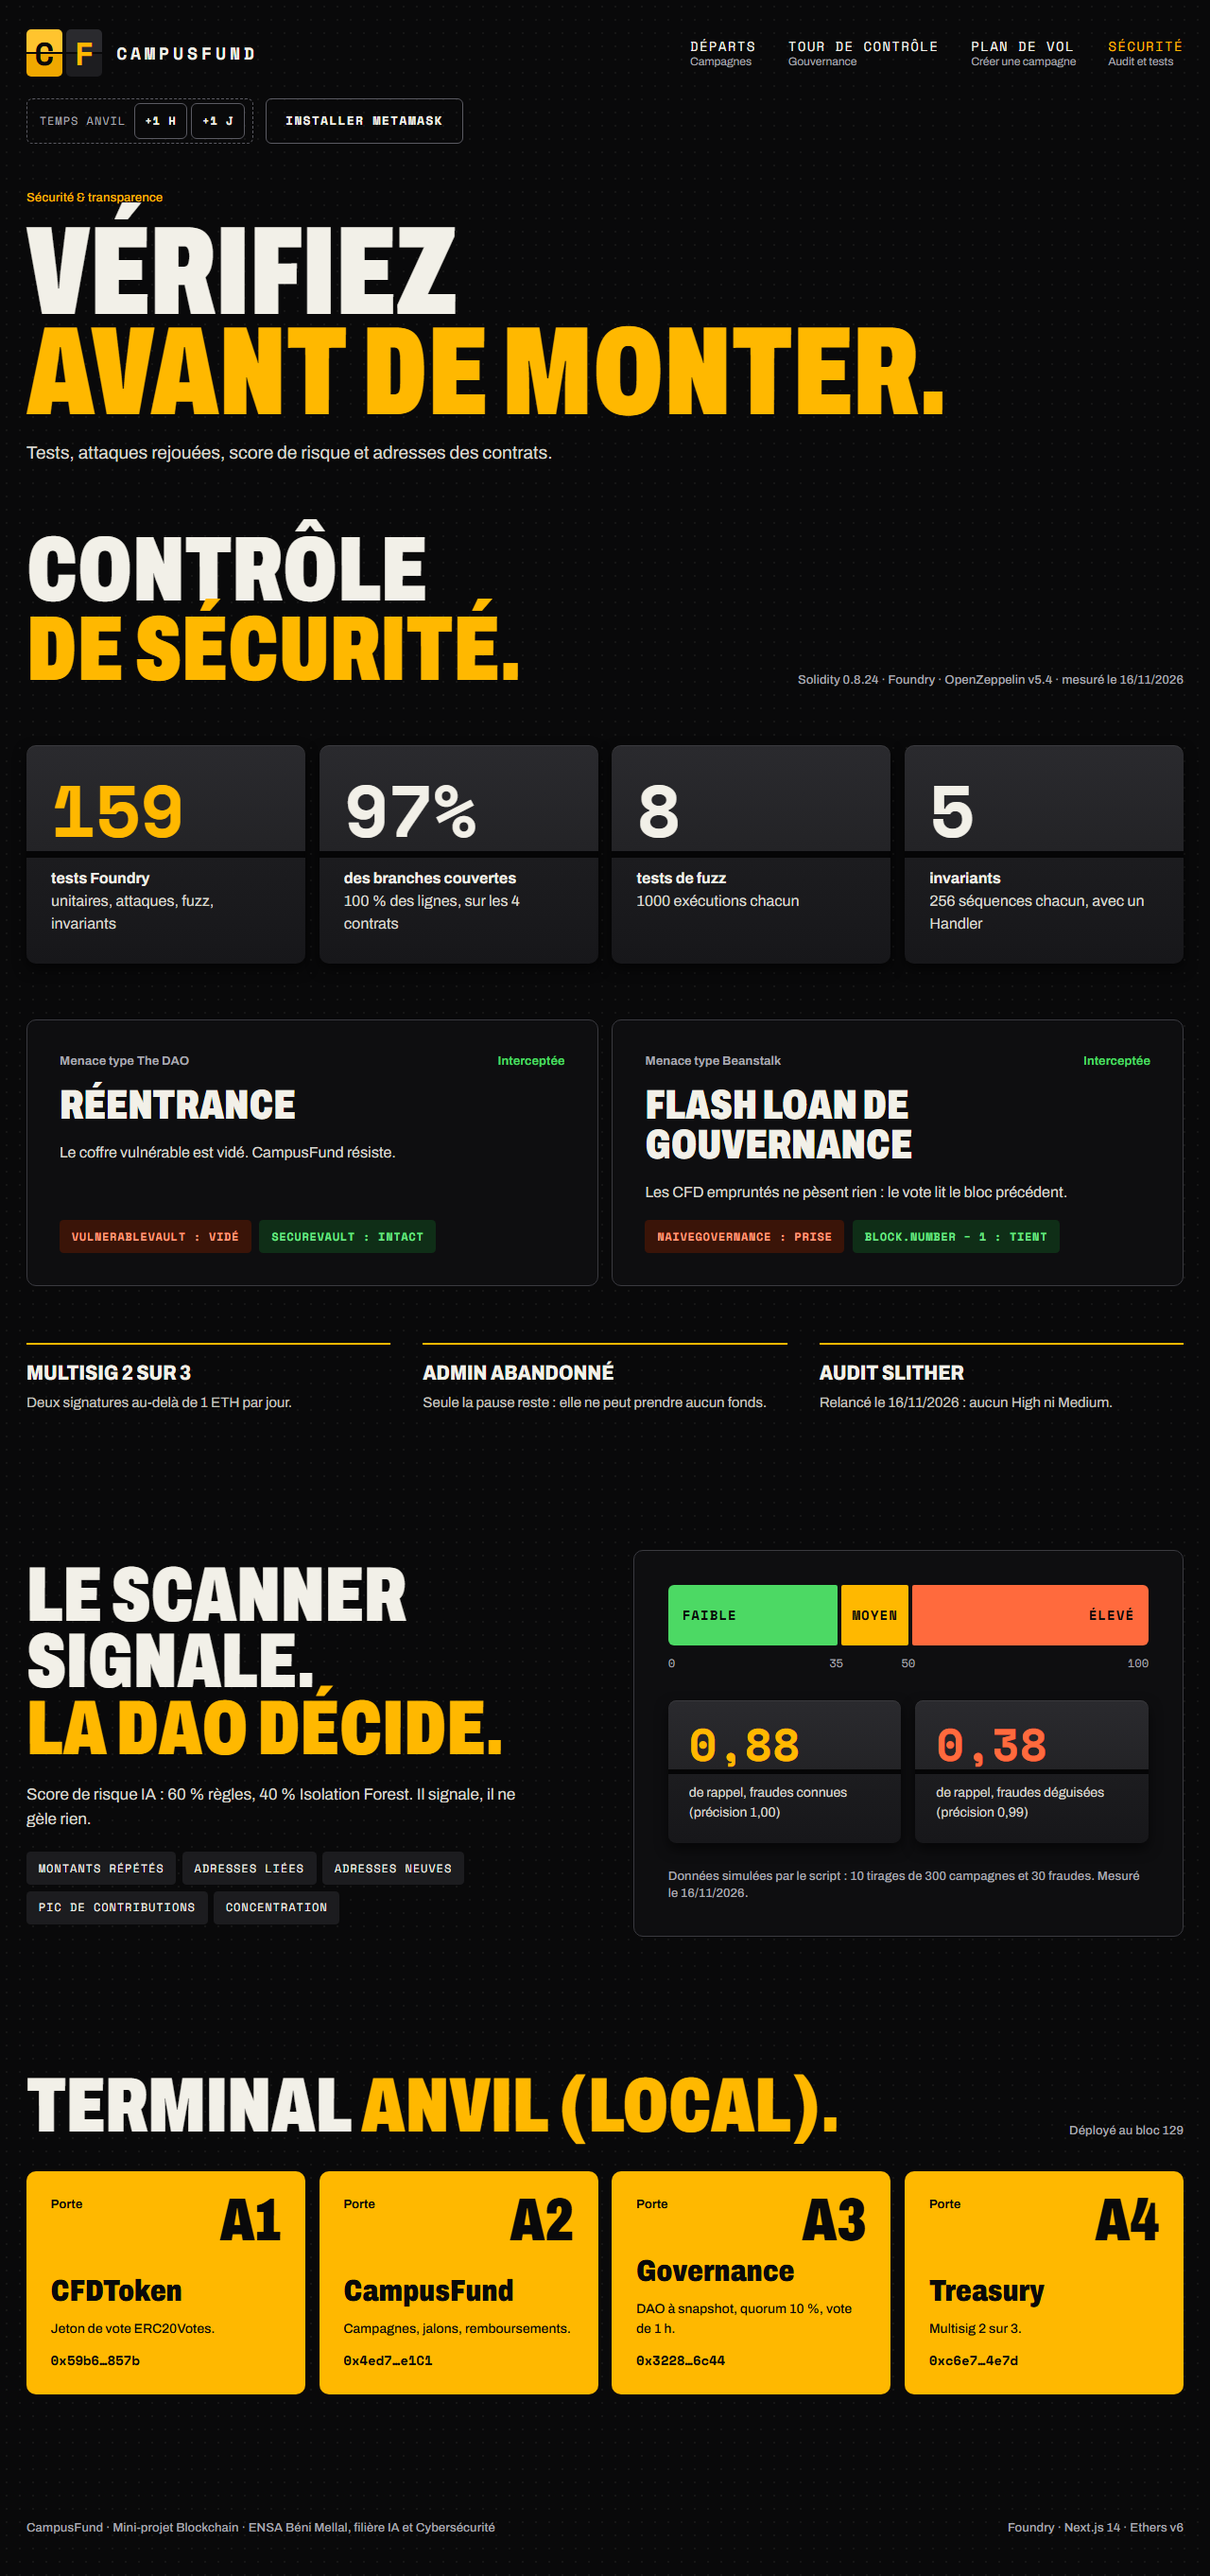
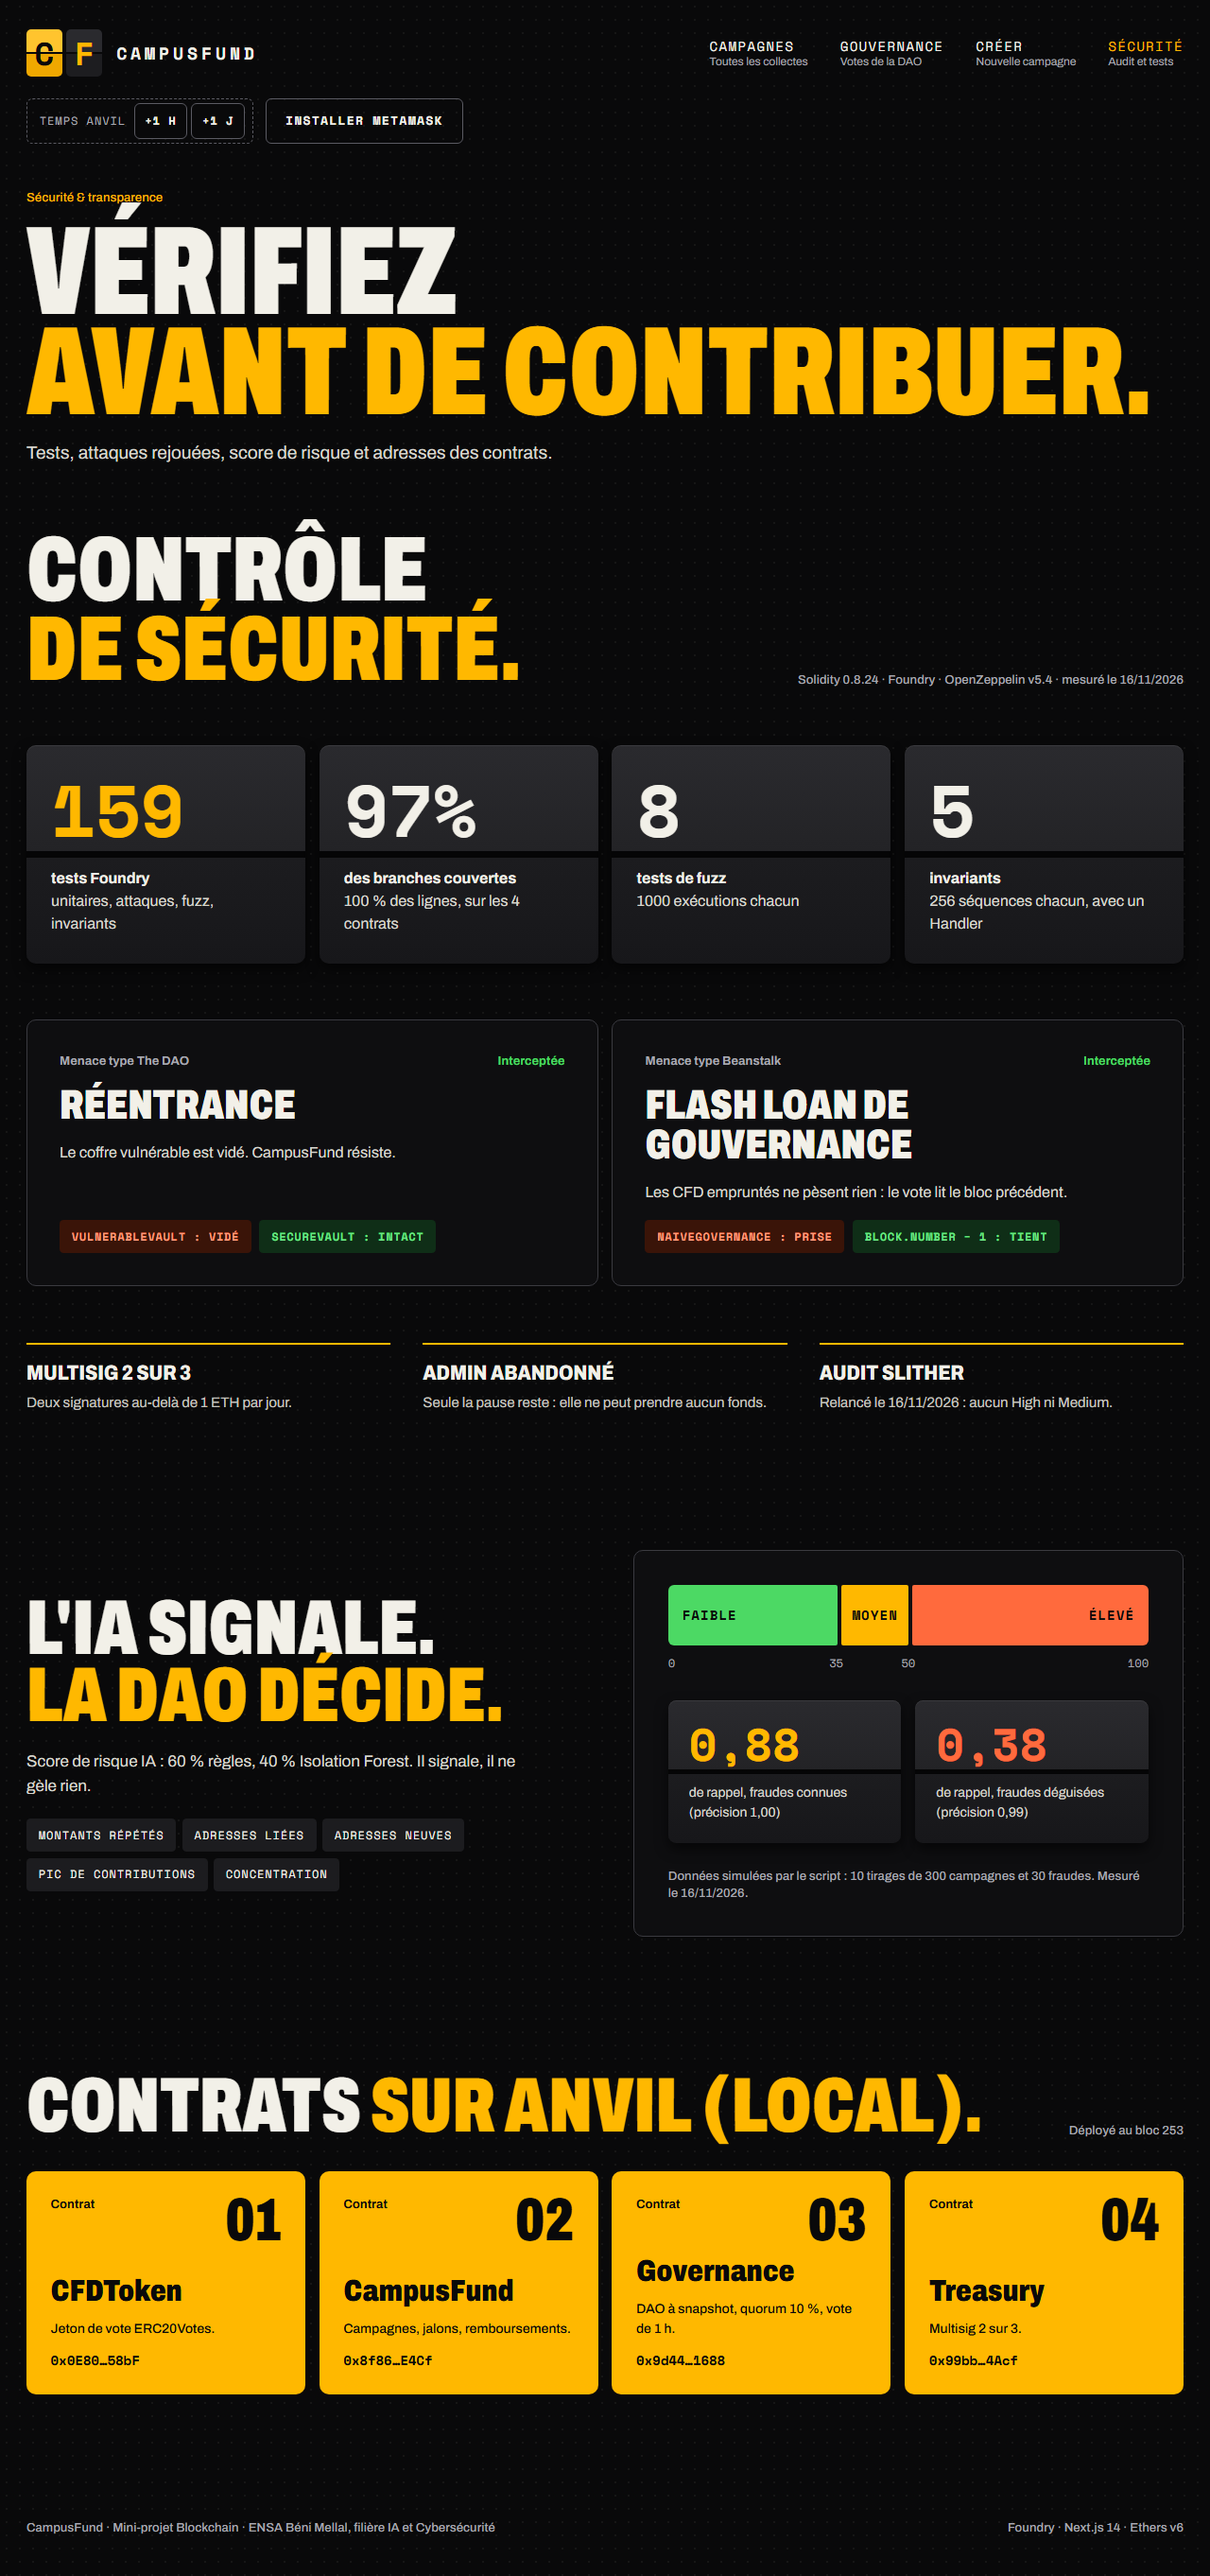
fix: page 404 en français, horloge d'anvil rétablie après les tests e2e
- evm_revert ne restaure pas l'horloge d'anvil : chaque npm run e2e avançait
  la démo d'une heure et fermait ses votes. L'avance est notée puis rétablie.
- page 404 en français ; titre de page sur une campagne introuvable.
- commentaires et documents sans l'ancien vocabulaire ; captures à jour.

diff --git a/frontend/src/app/campaign/[id]/page.tsx b/frontend/src/app/campaign/[id]/page.tsx
@@ -44,7 +44,7 @@ function Description({ text }: { text: string }) {
   );
 }
 
-/** Fiche d'une campagne : carte d'embarquement, piste des jalons, scanner et guichet (maquette Campaign). */
+/** Fiche d'une campagne : résumé, jalons, score de risque IA et panneau d'action. */
 export default function CampaignPage() {
   const params = useParams<{ id: string }>();
   const id = Number(params.id);
@@ -78,6 +78,7 @@ export default function CampaignPage() {
     return (
       <main className="wrap flex flex-col gap-6 pb-28 pt-5">
         <BackLink />
+        <h1 className="sr-only">{error ? "Campagne introuvable" : "Chargement de la campagne"}</h1>
         {error ? <ErrorPanel title="Campagne introuvable">{error}</ErrorPanel> : <LoadingFlaps label="Lecture de la campagne sur la chaîne" />}
       </main>
     );
@@ -98,7 +99,7 @@ export default function CampaignPage() {
         <Description text={metadata?.description ?? "Métadonnées IPFS indisponibles."} />
       </div>
 
-      {/* Sur téléphone, le guichet suit la carte d'embarquement ; sur grand écran, il reste à droite. */}
+      {/* Sur téléphone, le panneau d'action suit le résumé ; sur grand écran, il reste à droite. */}
       <div className="grid items-start gap-x-9 gap-y-12 min-[1100px]:grid-cols-[minmax(0,1fr)_380px]">
         <BoardingPass campaign={c} proposals={proposals ?? []} metadata={metadata} now={now} feePercent={rules.feePercent} />
         <aside className="flex min-w-0 flex-col gap-6 min-[1100px]:col-start-2 min-[1100px]:row-span-3 min-[1100px]:row-start-1">

diff --git a/frontend/src/app/not-found.tsx b/frontend/src/app/not-found.tsx
@@ -1,0 +1,21 @@
+import Link from "next/link";
+import { ArrowIcon } from "@/components/board/Icons";
+
+/** Page 404 : adresse inconnue, avec un retour vers les campagnes. */
+export default function NotFound() {
+  return (
+    <main className="wrap flex flex-col items-start gap-6 pb-28 pt-12">
+      <span className="tag text-amber">Erreur 404</span>
+      <h1 className="display display-hero">
+        Page
+        <br />
+        <span className="text-amber">introuvable.</span>
+      </h1>
+      <p className="m-0 max-w-[520px] text-[19px] text-soft">Cette adresse ne correspond à aucune page de CampusFund.</p>
+      <Link href="/#campagnes" className="btn btn-amber">
+        Voir les campagnes
+        <ArrowIcon />
+      </Link>
+    </main>
+  );
+}

diff --git a/frontend/src/components/creator/MyFlights.tsx b/frontend/src/components/creator/MyFlights.tsx
@@ -135,7 +135,7 @@ function protocolRules(feePercent: number): { title: string; text: string }[] {
   ];
 }
 
-/** Colonne « Mes vols en cours » : les campagnes dont le compte est porteur ou bénéficiaire. */
+/** Colonne « Mes campagnes » : les campagnes dont le compte est porteur ou bénéficiaire. */
 export function MyFlights({ campaigns, proposals, now, feePercent }: { campaigns: Campaign[] | null; proposals: Proposal[]; now: number; feePercent: number }) {
   const { account } = useWeb3();
   const me = account?.toLowerCase();

diff --git a/frontend/src/app/governance/page.tsx b/frontend/src/app/governance/page.tsx
@@ -9,7 +9,7 @@ import { VotingPower } from "@/components/governance/VotingPower";
 import { useCampaigns, useChainTime, useProposals } from "@/lib/hooks";
 import { formatPeriod, useProtocol } from "@/lib/useProtocol";
 
-/** Tour de contrôle = gouvernance de la DAO (maquette Governance). */
+/** Gouvernance de la DAO : pouvoir de vote, règles et propositions. */
 export default function GovernancePage() {
   const { data: proposals, error, isLoading } = useProposals();
   const { data: campaigns } = useCampaigns();

diff --git a/frontend/src/app/creator/page.tsx b/frontend/src/app/creator/page.tsx
@@ -5,7 +5,7 @@ import { MyFlights } from "@/components/creator/MyFlights";
 import { useCampaigns, useChainTime, useProposals } from "@/lib/hooks";
 import { useProtocol } from "@/lib/useProtocol";
 
-/** Plan de vol = espace porteur : créer une campagne et piloter ses vols (maquette Creator). */
+/** Espace porteur : créer une campagne et suivre les siennes. */
 export default function CreatorPage() {
   const { data: campaigns } = useCampaigns();
   const { data: proposals } = useProposals();

diff --git a/frontend/src/components/creator/FlightPlanForm.tsx b/frontend/src/components/creator/FlightPlanForm.tsx
@@ -69,7 +69,7 @@ function NumberField({ id, label, unit, value, onChange, hint, ...rest }: { id: 
   );
 }
 
-/** Plan de vol = création d'une campagne : métadonnées sur IPFS, puis createCampaign. */
+/** Création d'une campagne : métadonnées sur IPFS, puis createCampaign. */
 export function FlightPlanForm() {
   const { account } = useWeb3();
   const { status, send, busy } = useTx();

diff --git a/docs/DESIGN.md b/docs/DESIGN.md
@@ -51,8 +51,8 @@ Les deux polices sont téléchargées au build et servies par le site : aucun ap
 
 | Route | Contenu |
 |---|---|
-| `/` | Titre en palettes, horloge, tableau des départs filtrable, quatre portes (cycle de vie), appel à l'action. |
-| `/campaign/[id]` | Carte d'embarquement (collecté, objectif, itinéraire des jalons), jalons et vote en cours avec sa preuve, scanner IA, guichet de contribution. |
+| `/` | Titre en palettes, horloge, tableau des campagnes filtrable, quatre étapes (cycle de vie), appel à l'action. |
+| `/campaign/[id]` | Résumé de la campagne (collecté, objectif, statut), frise des jalons et vote en cours avec sa preuve, score de risque IA, panneau de contribution. |
 | `/governance` | Pouvoir de vote, radar et résumé chiffré, règles du vote, propositions avec barres Pour / Contre / quorum. |
 | `/creator` | Formulaire de création (jalons réglés par pas de 5 %, total exactement 100 %), campagnes du compte. |
 | `/securite` | Tests, attaques rejouées, scanner IA et contrats déployés, avec la date de mesure. |
@@ -77,5 +77,5 @@ Les deux polices sont téléchargées au build et servies par le site : aucun ap
 - Le formulaire de création garde les champs exigés par IPFS et le contrat (club, catégorie, description,
   bénéficiaire, intitulé et preuve de chaque jalon), et une durée « 1 h · démo ».
 - Délégation et proposition de gel conservées en gouvernance.
-- Titre de l'accueil fixe (« Les fonds décollent sur vote. ») au lieu d'une alternance toutes les 4 s.
+- Titre de l'accueil fixe (« Les fonds débloqués sur vote. ») au lieu d'une alternance toutes les 4 s.
 - Sécurité, scanner et contrats déplacés de l'accueil vers `/securite`.

diff --git a/docs/GUIDE_PEDAGOGIQUE.md b/docs/GUIDE_PEDAGOGIQUE.md
@@ -177,7 +177,7 @@ CampusFund. L'enum `Status` y est défini : `Active` (0, En cours), `Successful`
 | `lib/hooks.ts` | Chargement des campagnes, propositions, métadonnées IPFS et scores IA. Rechargement après chaque transaction. |
 | `app/api/ipfs/route.ts` | Envoi des métadonnées sur Pinata **côté serveur** (le JWT n'atteint jamais le navigateur), avec validation, limite de taille et limite de débit. |
 | `app/api/ipfs/[cid]/route.ts` | Lecture d'un CID (cache local puis passerelle IPFS). Le CID est validé par une expression régulière, ce qui empêche `../` (path traversal). |
-| `app/page.tsx` | Écran 1 : tableau des départs (cartes sous 768 px), fonctionnement en quatre portes. |
+| `app/page.tsx` | Écran 1 : tableau des campagnes (cartes sous 768 px), fonctionnement en quatre étapes. |
 | `app/campaign/[id]/page.tsx` | Écran 2 : détail, contribution, clôture, remboursement. |
 | `app/governance/page.tsx` | Écran 3 : pouvoir de vote, délégation (gels), propositions avec preuve, quorum, vote, exécution, gel. |
 | `app/creator/page.tsx` | Écran 4 : création (IPFS puis transaction), demande de déblocage avec preuve, retrait. |
